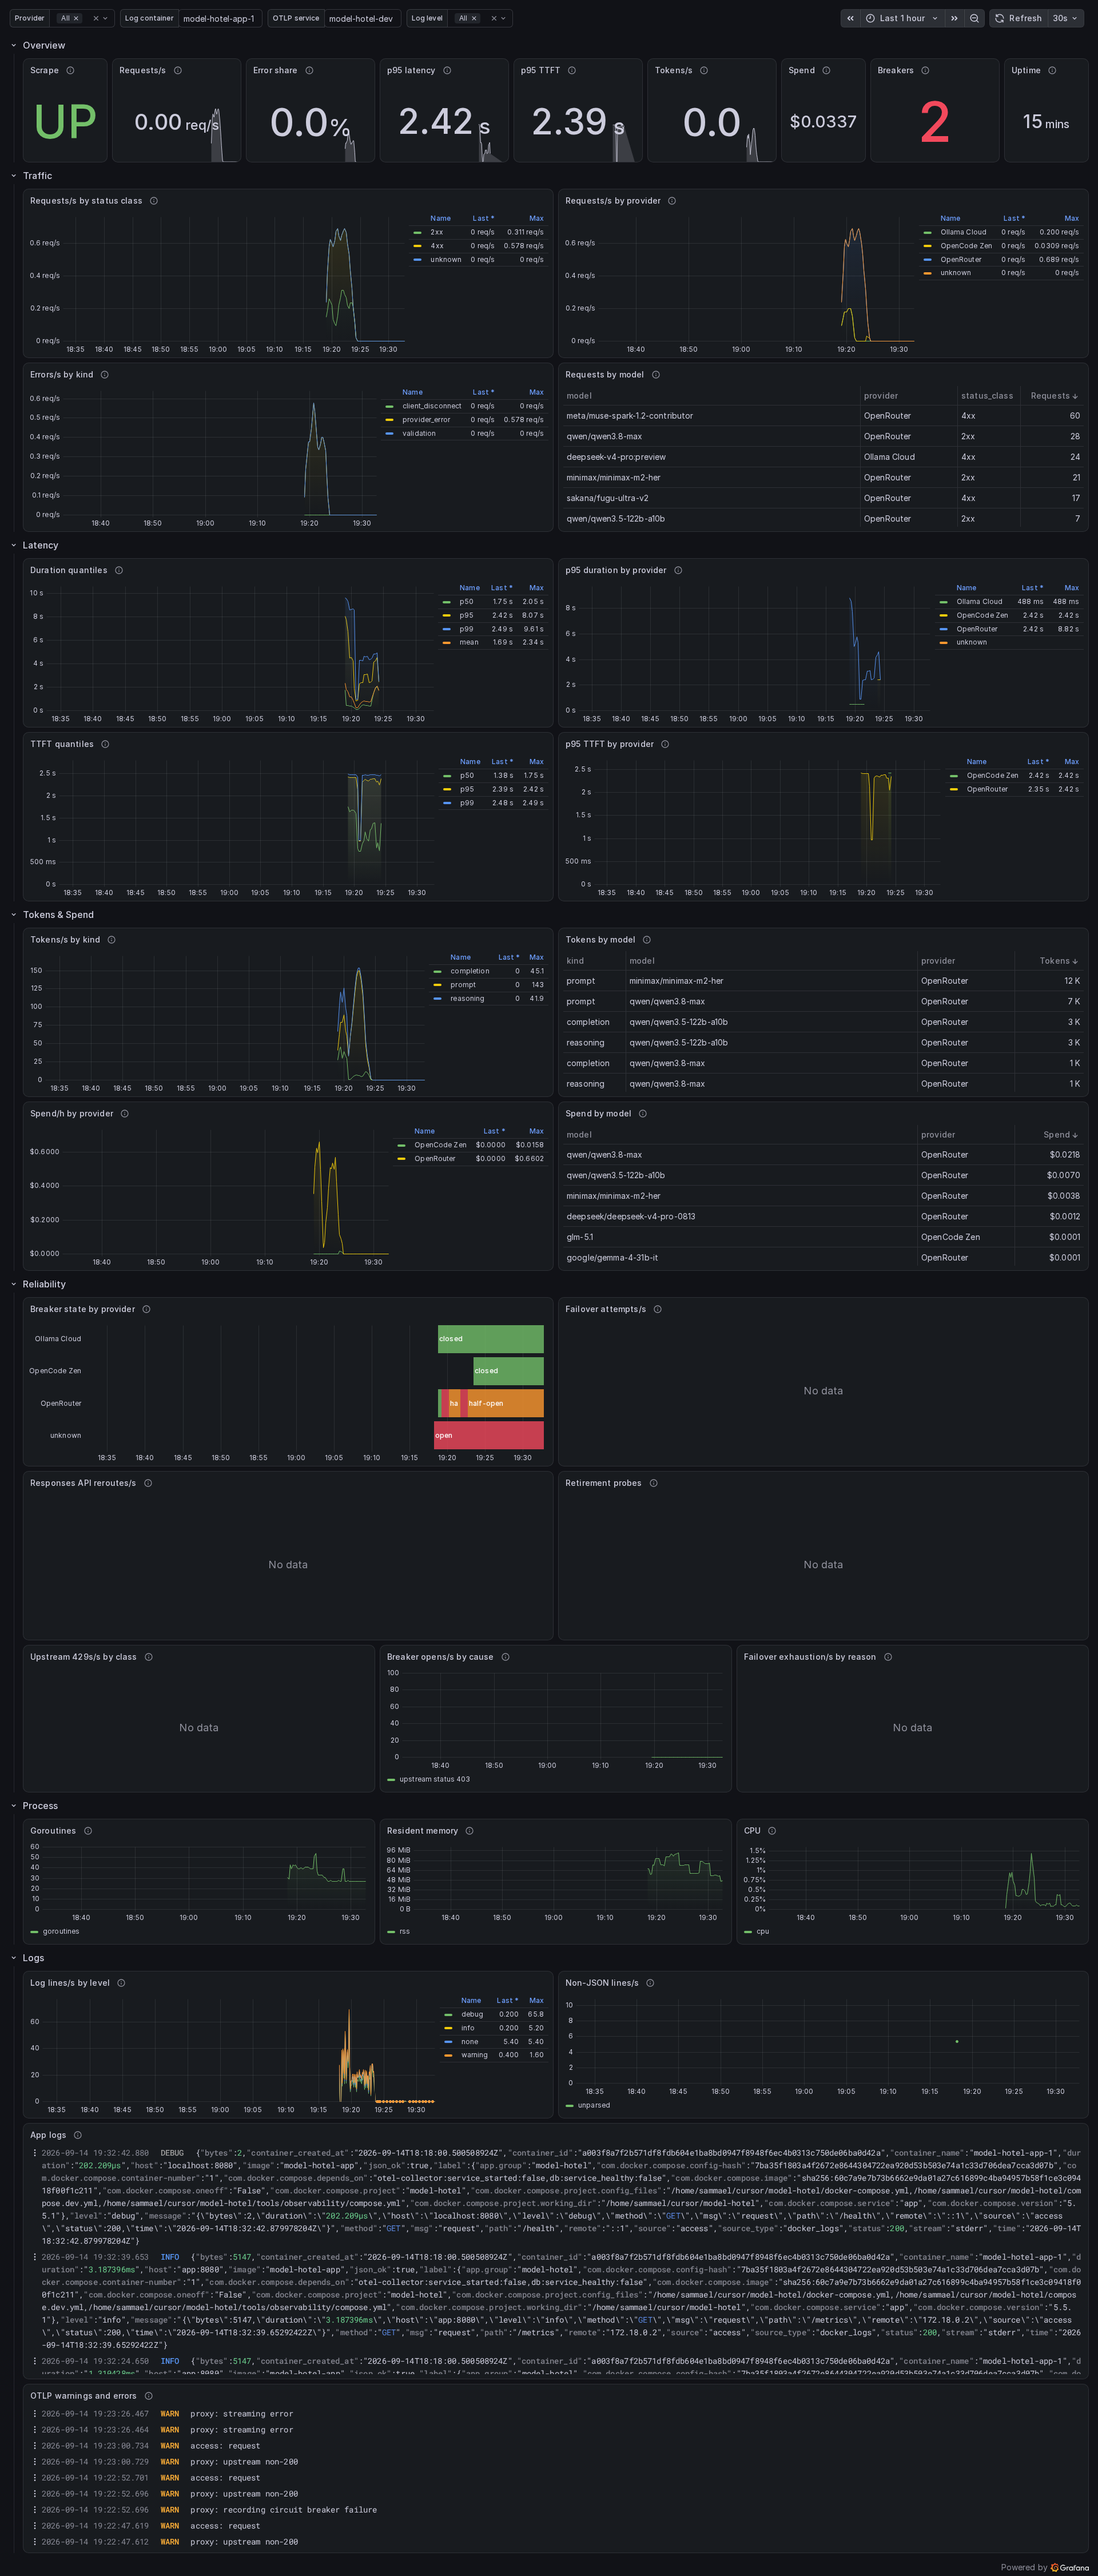
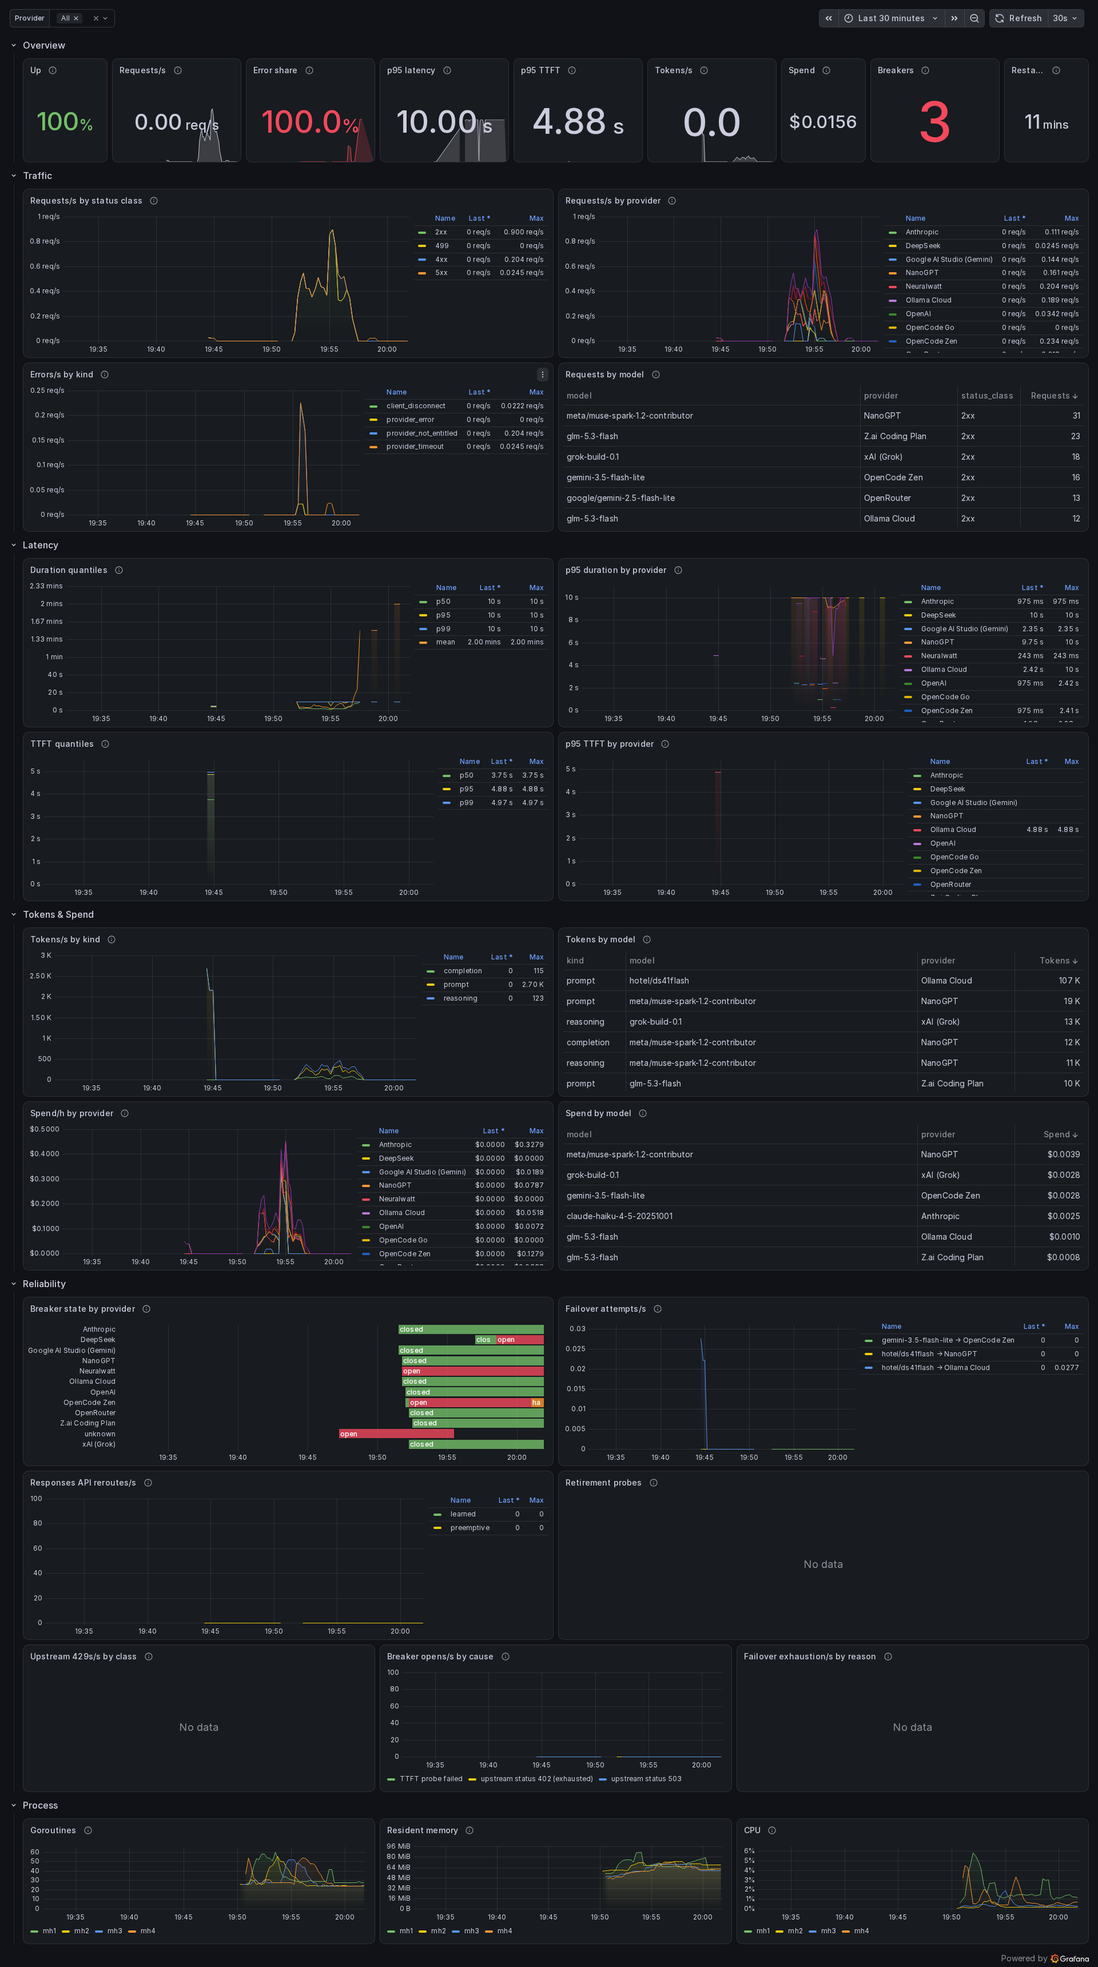
fix(deploy): fleet-wide breaker lanes and count, members-up share, per-member legends, a real fleet screenshot
The breaker lanes and the breaker count are the worst state per provider
across members, filtered by the provider variable; the first overview
tile is the share of members up; job is a static target label rather
than a relabel; the README scrape example carries the member label the
process legends read; the wiki says UI edits survive until the file
changes and how to fix a root-owned data directory; the screenshot is
the shipped dashboard on the four-member fleet.

diff --git a/wiki/Observability.md b/wiki/Observability.md
@@ -16,17 +16,18 @@ dashboard over the metrics.
 One dashboard, provisioned into the folder "Model Hotel", with a `provider` variable that
 narrows every panel:
 
-- **Overview**: scrape health, requests/s, error share, p95 latency and TTFT, tokens/s, spend
-  over the selected range, breakers not closed, uptime. Red means look here: only the error
-  share and open breakers carry thresholds.
+- **Overview**: members up (the Up tile), requests/s, error share, p95 latency and TTFT, tokens/s, spend
+  over the selected range (approximate at the range edges), providers with a breaker not
+  closed anywhere in the fleet, time since the most recent member restart. Red means look
+  here: only members up, error share and open breakers carry thresholds.
 - **Traffic**: requests/s by status class and by provider, errors/s by kind, requests by model.
 - **Latency**: duration and TTFT quantiles, p95 by provider.
 - **Tokens & Spend**: tokens/s by kind, tokens by model, spend per hour by provider, spend by
   model. Spend is `modelhotel_cost_usd_total`, the same dollars the dashboard's `$` view and
   `request_logs.cost_usd` carry; a model with no known price adds nothing, so a sum is a floor
   wherever a model is unpriced.
-- **Reliability**: breaker state per provider (named since the gauge carries `provider` next
-  to `provider_id`), failover attempts, Responses API reroutes, retirement probes, upstream 429s
+- **Reliability**: breaker state per provider, the worst state any member reports for it
+  (named since the gauge carries `provider` next to `provider_id`), failover attempts, Responses API reroutes, retirement probes, upstream 429s
   by class, breaker opens by cause, failover exhaustion by reason.
 - **Process**: goroutines, resident memory, CPU.
 
@@ -42,7 +43,7 @@ that can reach the members over HTTPS; on a fleet, one copy next to any member i
 the dashboard sums across members.
 
 1. Copy the directory to the host, for example `/home/you/docker/observability`.
-2. Put each member's token in `tokens/<job>` (`tokens/mh1`, `tokens/mh2`, ...), one line, mode
+2. Put each member's token in `tokens/<member>` (`tokens/mh1`, `tokens/mh2`, ...), one line, mode
    `0600`. Set a dedicated `METRICS_TOKEN` on each member for this (see [[Configuration]]);
    until one is set, the member's admin token opens `/metrics` and works here too.
 3. Edit `prometheus.yml`: one `scrape_config` block per member, with its public hostname as the
@@ -54,8 +55,9 @@ the dashboard sums across members.
    without one. Set `OBS_UID`/`OBS_GID` to the uid and gid that own `tokens/` (`id -u`,
    `id -g`), so Prometheus runs as that user and can read the `0600` token files.
    `GRAFANA_PORT` (3000) and `PROMETHEUS_RETENTION` (30d) are optional.
-5. `mkdir -p data/prometheus` (Prometheus stores its series there, as your user), then
-   `docker compose up -d` and open `http://<host>:3000`, sign in as `admin`, and find the
+5. `mkdir -p data/prometheus` before the first start (Prometheus stores its series there, as
+   your user; if the stack was started first, Docker created that directory as root, so
+   `sudo chown -R $(id -u):$(id -g) data` once), then `docker compose up -d` and open `http://<host>:3000`, sign in as `admin`, and find the
    dashboard under Dashboards → Model Hotel. Prometheus itself is not published; Grafana reaches
    it on the compose network.
 
@@ -70,6 +72,6 @@ container output to your own collector with `LOG_FORMAT=json` or `OTEL_EXPORTER_
 ## Editing the dashboard
 
 The dashboard is a plain Grafana JSON model, `grafana/dashboards/model-hotel-gateway.json`.
-Grafana re-reads the provisioned file every 30 seconds, so an edit lands without a restart.
-Edits made in the Grafana UI are allowed (`allowUiUpdates`) but are overwritten by the file on
-the next re-read; export the JSON model and commit it to keep them.
+Grafana re-reads the provisioned file every 30 seconds, so an edit to the file lands without a
+restart. Edits made in the Grafana UI are allowed (`allowUiUpdates`) and persist until the file
+itself next changes, which overwrites them; export the JSON model and commit it to keep them.

diff --git a/README.md b/README.md
@@ -531,6 +531,8 @@ scrape_configs:
       credentials: "${METRICS_TOKEN}"
     static_configs:
       - targets: ["model-hotel:8080"]
+        labels:
+          member: mh1
 ```
 
 For logs, set `LOG_FORMAT=json` to emit one structured JSON object per line on stdout for
